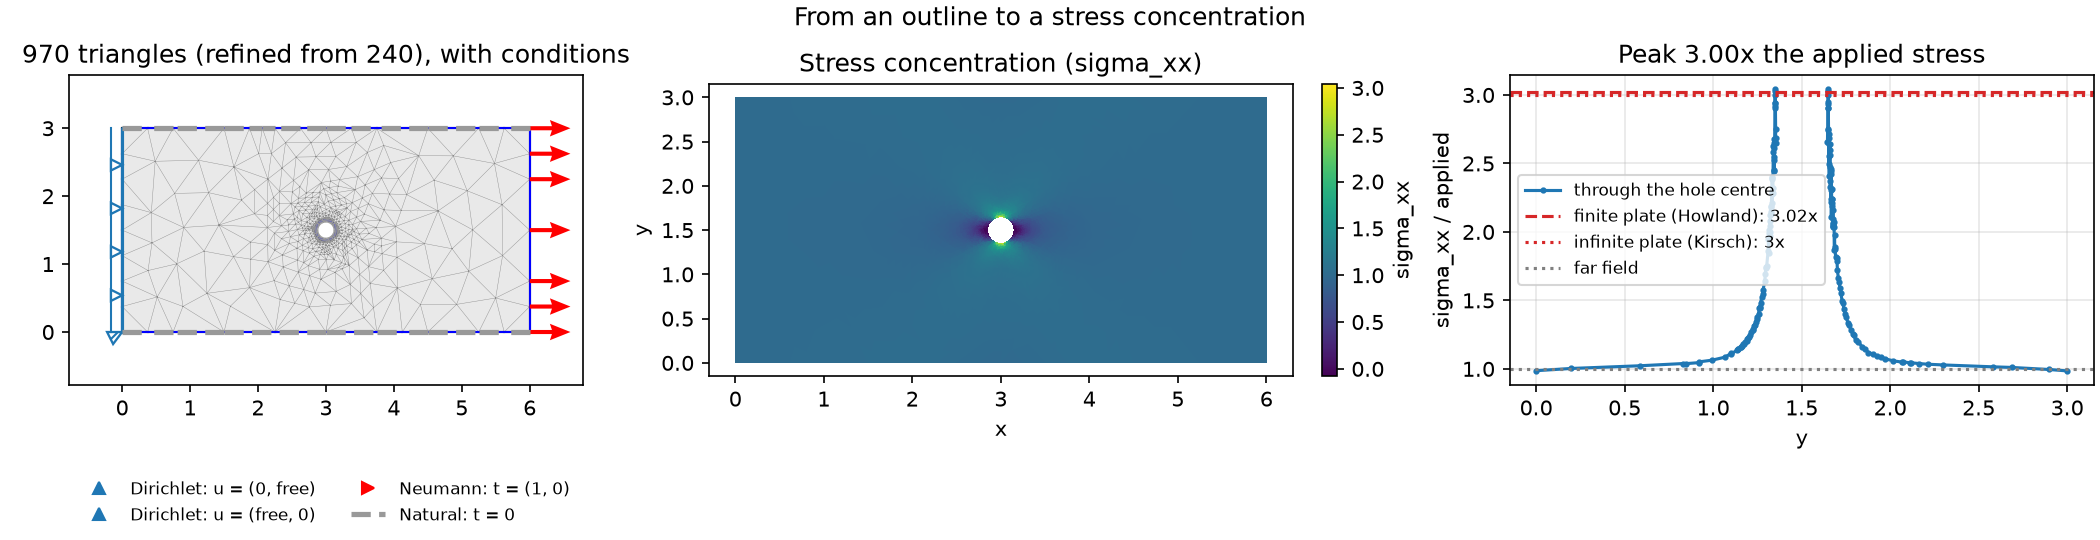
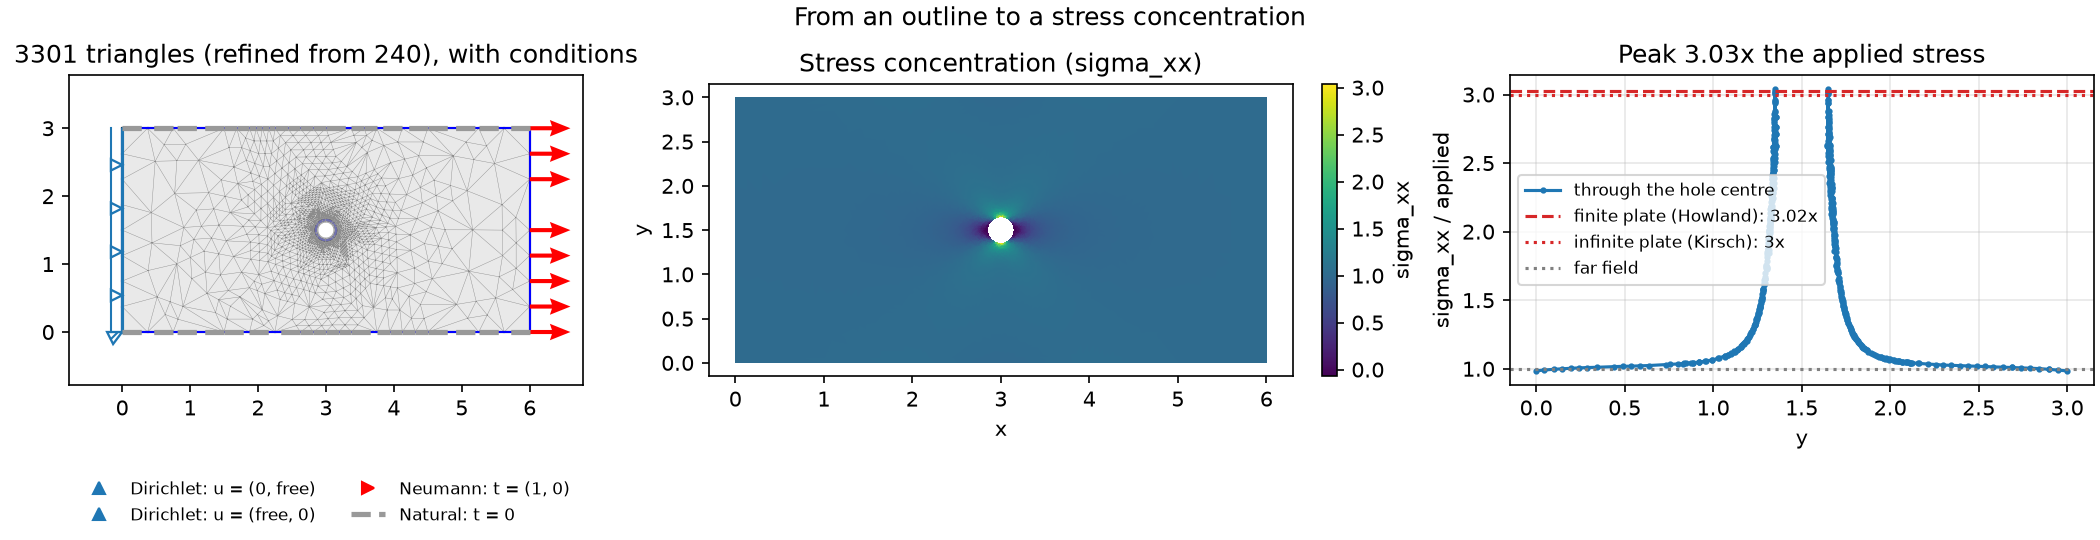
Refine to 36 rounds and note Howland's finite-width factor

diff --git a/examples/solver_demos.py b/examples/solver_demos.py
@@ -487,7 +487,7 @@ def _finite_plate_kt(hole_over_width: float) -> float:
 
 def demo_stress_concentration(traction=1.0, length=6.0, height=3.0, radius=0.15,
                               min_angle=25, max_area_fraction=0.01, circle_segments=16,
-                              refinement_iters=20, refinement_budget=8000):
+                              refinement_iters=36, refinement_budget=40000):
     """Take a plate with a hole from an outline through meshing, boundary conditions and
     adaptive refinement to the stress concentration at its rim, measured against
     Kirsch's factor of 3 and the finite-width value it approaches."""
@@ -576,9 +576,11 @@ def demo_stress_concentration(traction=1.0, length=6.0, height=3.0, radius=0.15,
 
     # Kirsch's factor of 3 is the infinite-plate limit, and this plate is finite: the
     # hole removes section, which raises the stress the remaining material carries, so
-    # the exact answer sits a little above 3 (Howland's finite-width value, below).
-    # The rim reading lands within about a percent of it, and further refinement moves
-    # it by less than the last digit shown.
+    # the exact answer sits a little above 3. Howland (1930) solved the strip of finite
+    # width with a central hole; his value at this hole/width is the reference line.
+    # The peak converges to it from below (a Galerkin solution is too stiff, so its
+    # sharpest gradient is the last thing to converge): 2.97, 3.00, 3.00, 3.03 over
+    # 624, 970, 1877 and 3301 elements. Thirty-six rounds land within a hundredth.
     hole_over_width = 2*radius / height
     finite_kt = _finite_plate_kt(hole_over_width)
 

diff --git a/README.md b/README.md
@@ -137,7 +137,7 @@ its outline, given roller and traction conditions (the rim is left traction-free
 natural condition of the weak form), solved on curved quadratic elements, then adaptively
 refined toward the stress at the rim. The stress crowds into the material either side of
 the hole and relaxes to the applied value within about a diameter. Read at the rim nodes
-it peaks at 3.00x the applied stress, against the classic Kirsch factor of 3 for a hole in
+it peaks at 3.03x the applied stress, against the classic Kirsch factor of 3 for a hole in
 an infinite plate and Howland's 3.02 for a hole a tenth of this plate's width.
 
 <p align="center"><img src="images/stress_concentration.png" width="780" alt="Refined mesh with conditions, the stress field, and the peak against the Kirsch factor"></p>
